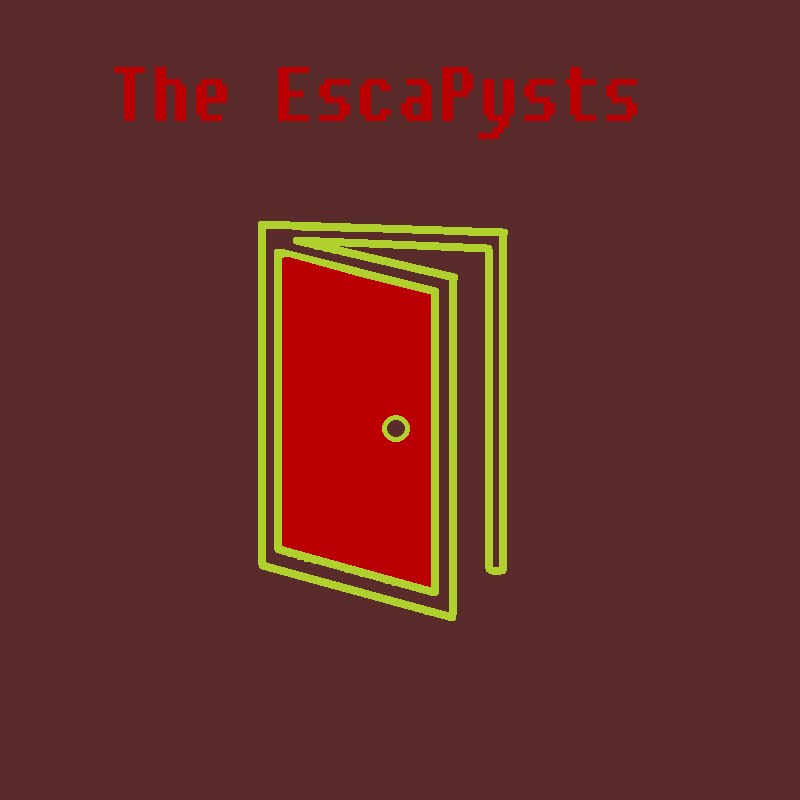
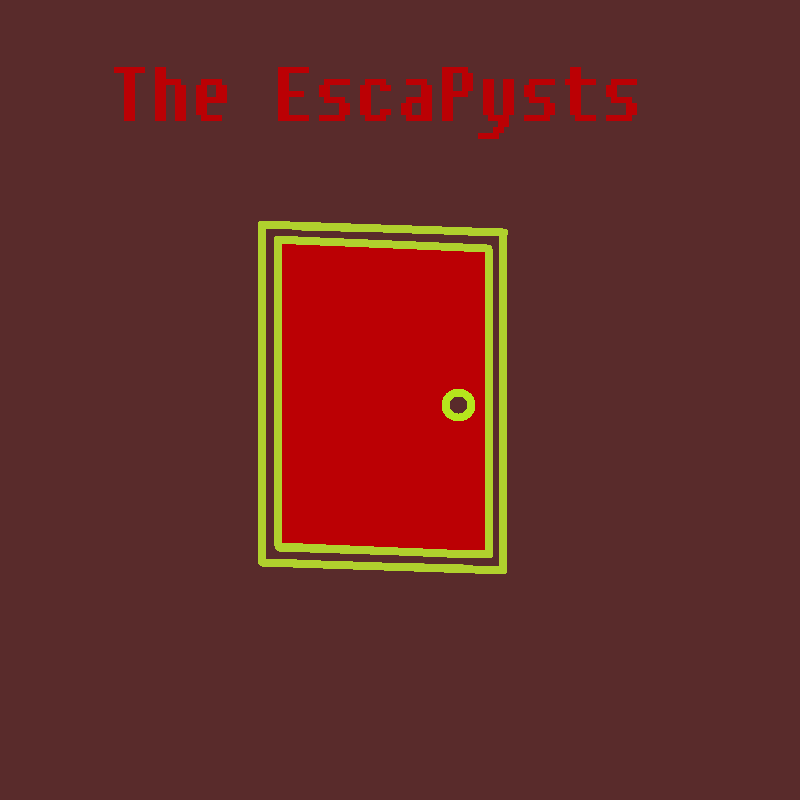
main menu //done

Changed region(s): [[0.3125, 0.2812, 0.625, 0.7812]]

diff --git a/externalClasses/externalCore.py b/externalClasses/externalCore.py
@@ -16,6 +16,8 @@ class Core():
 		self.fpsLimit = FPS_limit
 		self.quit = False
 
+		self.mainMenuHandlerObject = Menu(self.graphicHandlerObject)
+
 			
 	def keyLock(self):
 		for x in self.keys:
@@ -56,17 +58,20 @@ class Core():
 				if "esc" in self.keys or options:
 					if "esc" in self.keys:
 						options = not(options)
+
 				####### main menu
 				elif static:
-					pass
+					self.mainMenuHandlerObject.update()
+
 				####### level trigger
-				if (("ENTER" in self.keys or "Enter" in self.keys) or play) and not options:
+				if (("ENTER" in self.keys or "Enter" in self.keys or self.mainMenuHandlerObject.buttonPressed[0]) or play) and not options:
 					if not play:
 						self.levelHandlerObject = Level(self.graphicHandlerObject)
 						self.playerHandlerObject = Player(self.graphicHandlerObject,self.levelHandlerObject,self.keys)
 						self.ennemiesHandlerObject = Ennemies(self.graphicHandlerObject,self.levelHandlerObject,self.playerHandlerObject)
 						play = True
 						static = False
+						self.mainMenuHandlerObject.buttonPressed[0] = False
 						# self.levelHandlerObject.test()
 
 					####### in-level actions :
@@ -76,16 +81,10 @@ class Core():
 					self.playerHandlerObject.update()
 					self.levelHandlerObject.update()
 
-					
-					
-					
-		
-
-
 
 				####### endLoop actions
 				self.keysRegister = temporaryKeyLock[:]
+				self.graphicHandlerObject.generalDisplayUpdate()
 
 				####### tests zone
-
 				

diff --git a/externalClasses/externalMenu.py b/externalClasses/externalMenu.py
@@ -3,5 +3,25 @@
 
 class Menu():
 	"""docstring for Menu"""
-	def __init__(self):
-		self.backgroundAdress = "./images/menu.png"
+	def __init__(self, arg):
+		self.backgroundAdress = "images/menu.png"
+		self.graphicHandlerObject = arg
+
+		self.graphicHandlerObject.displayBackgroundUpdate(self.backgroundAdress)
+
+		self.buttonCoords = [[245,210,295,425]]  #j'aurais pu faire une classe 'bouton' mais hé... on en a qu'un seul, ça va oui ?
+		self.buttonPressed = [0]
+		self.buttonImages = ["images/bouton_menu.png"]
+
+	def update(self):
+		self.graphicHandlerObject.displayBackgroundUpdate(self.backgroundAdress)
+		self.mousePos = self.graphicHandlerObject.getMouse()
+		self.UI_button()
+
+	def UI_button(self):
+		for x in self.buttonCoords:
+			if ((x[0])*(self.graphicHandlerObject.screen_l/800)<self.mousePos[0]<(x[0]+x[2])*(self.graphicHandlerObject.screen_l/800)) and ((x[1])*(self.graphicHandlerObject.screen_l/800)<self.mousePos[1]<(x[1]+x[3])*(self.graphicHandlerObject.screen_l/800)):
+				self.graphicHandlerObject.displayButton(self.buttonImages[self.buttonCoords.index(x)],x)
+				if self.graphicHandlerObject.leftClick :
+					self.buttonPressed[self.buttonCoords.index(x)] = True
+		

diff --git a/externalClasses/externalGraphics.py b/externalClasses/externalGraphics.py
@@ -25,6 +25,11 @@ class Graphics():
 
 		Graphics.screen = initialize(self.screen_l,self.screen_h)
 
+		self.leftClick = 0
+		self.rightClick = 0
+
+		self.buttonImage = None
+
 	def killWindow(self):
 		pygame.quit()
 
@@ -46,6 +51,13 @@ class Graphics():
 			self.bckg = pygame.transform.scale(self.bckg, (self.screen_l,self.screen_h))
 
 		self.screen.blit(self.bckg,(0,0))
+
+	def displayButton(self,imageAdress,coordinates):
+		if self.buttonImage == None :
+			self.buttonImage = pygame.image.load(imageAdress).convert()
+			self.buttonImage = pygame.transform.scale(self.buttonImage, (int(self.screen_l*(coordinates[2]/800)),int(self.screen_h*(coordinates[3]/800))) )
+		self.screen.blit(self.buttonImage, [coordinates[0],coordinates[1]])
+		
 
 	def generalDisplayUpdate(self):
 		pygame.display.flip()
@@ -76,9 +88,14 @@ class Graphics():
 		
 		return keys_input
 
+	def getMouse(self):
+		self.leftClick = pygame.mouse.get_pressed()[0]
+		self.rightClick = pygame.mouse.get_pressed()[2]
+		return pygame.mouse.get_pos()
+
 
 """
-#DRAW METHODS   ----- > not used anymore
+#DRAW METHODS   ----->    not used anymore
 
 def drawGrid(self):
 	for x in range(1,81):

diff --git a/externalClasses/externalLevel.py b/externalClasses/externalLevel.py
@@ -37,7 +37,7 @@ class Level():
 					y.update(self.graphicHandlerObject)				
 					#print("sucessfully displayed "+y.type+ " at : "+ str(y.position))
 
-		self.graphicHandlerObject.generalDisplayUpdate()
+
 
 	def memoryPath(self):
 		self.savefile = "save.txt"

diff --git a/main.py b/main.py
@@ -10,4 +10,3 @@ from externalClasses.externalCore import *
 game = Core(120)
 game.run()
 quit()
-
